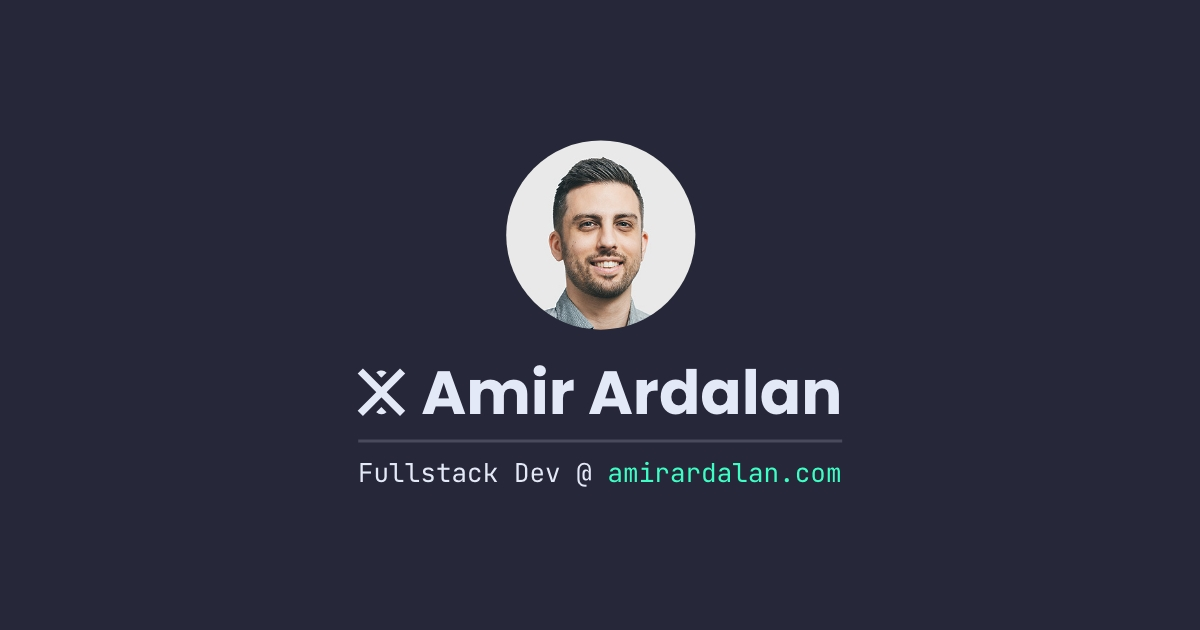
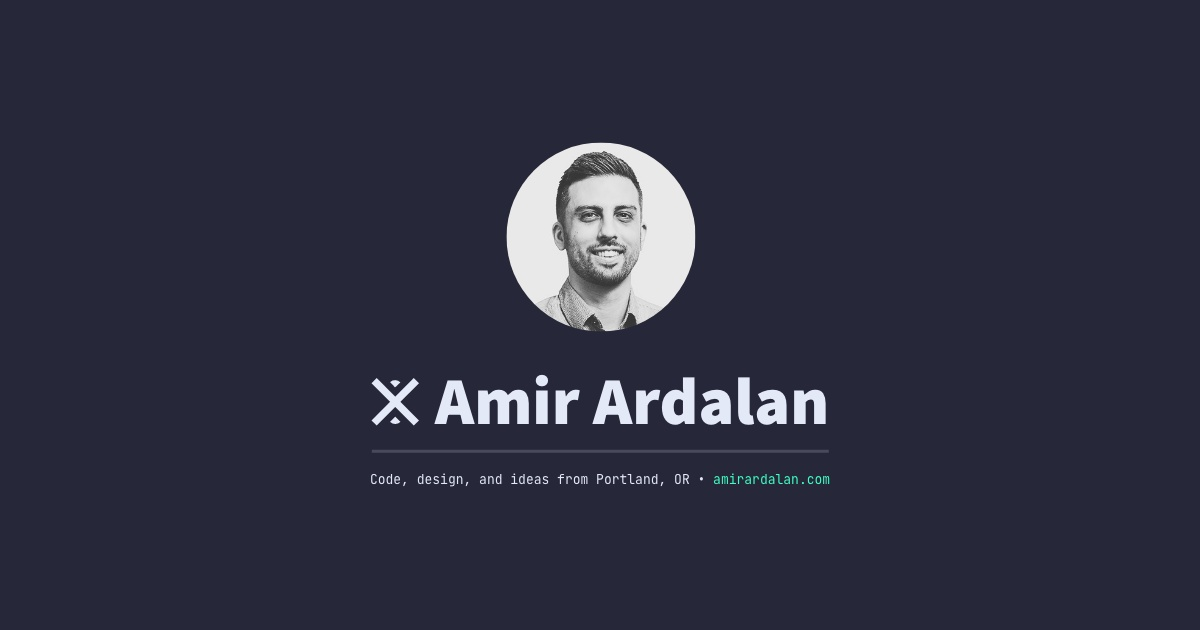
Update site thumbnail typography

Changed region(s): [[0.2775, 0.573, 0.7092, 0.7841], [0.4317, 0.2111, 0.555, 0.5429]]

diff --git a/components/Logo.tsx b/components/Logo.tsx
@@ -24,21 +24,21 @@ export default function Logo() {
 
   const styleTitle = css({
     display: 'block',
-    fontWeight: 'bold',
-    textTransform: 'uppercase',
-    letterSpacing: .5,
-    fontSize: '14px',
+    fontWeight: 700,
+    fontSize: 14,
+    letterSpacing: .6,
     color: 'var(--color-text)',
-    lineHeight: '1rem'
+    lineHeight: '1rem',
+    textTransform: 'uppercase'
   })
   
   const styleTitleSub = css({
     position: 'relative',
     color: 'var(--color-neutral)',
     fontFamily: 'var(--font-primary)',
-    fontSize: '8px',
+    fontSize: 8,
     fontWeight: 'normal',
-    letterSpacing: '.11rem',
+    letterSpacing: 1.8,
     textTransform: 'uppercase'
   })
 
